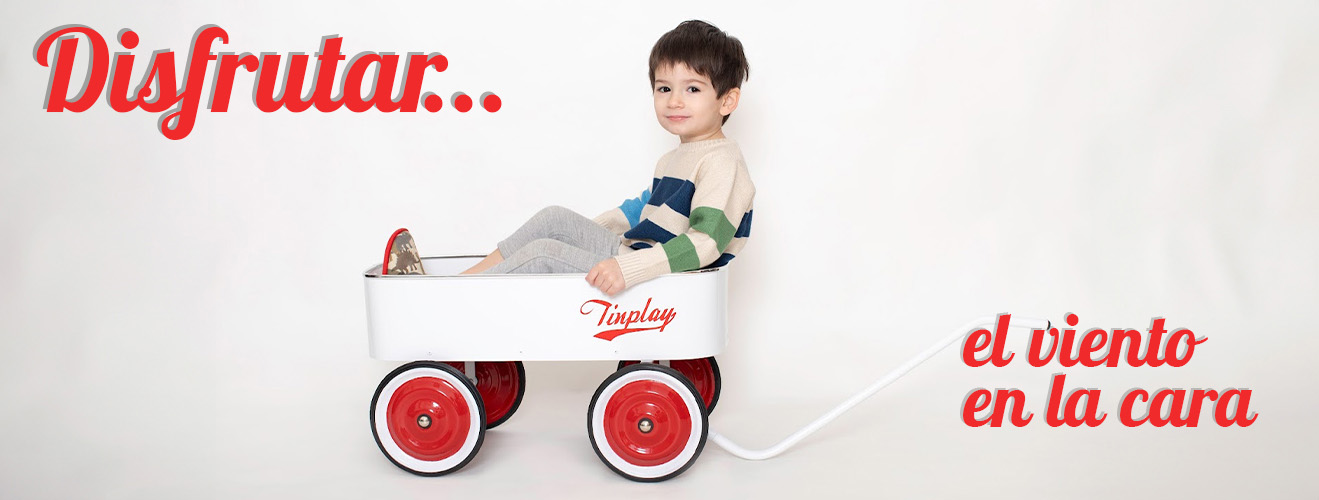
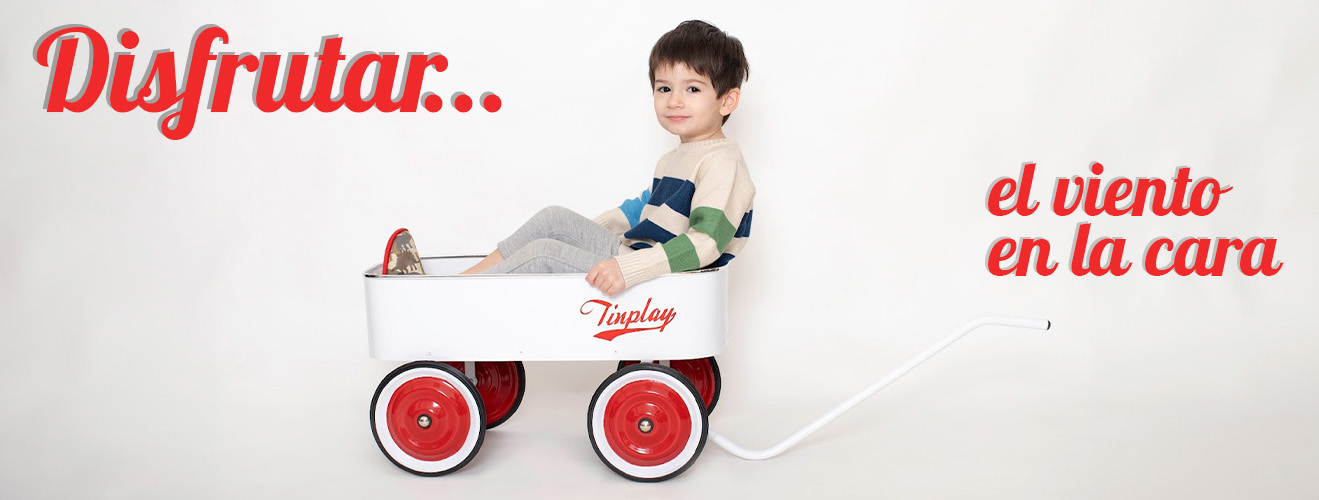
casi-final2

Changed region(s): [[0.746, 0.33, 0.9947, 0.57], [0.7149, 0.63, 0.9636, 0.87]]

diff --git a/css/style.css b/css/style.css
@@ -134,6 +134,13 @@ a{
 #banner-slogan {
     padding-top: 4.375rem;
 }
+#banner-slogan .tres-estrellas{
+    position: absolute;
+    height: 3rem;
+    width: 3rem;
+    margin-left: 2rem;
+    margin-top: 3.5rem;
+}
 #banner-slogan .slider {
     width: 80%;
     height: 28.125rem;
@@ -424,6 +431,12 @@ a{
     position: absolute;
     z-index: 1;
 }
+#sobre-nosotros .tres-estrellas-nosotros{
+    position: absolute;
+    height: 3rem;
+    width: 3rem;
+    margin-left: 25rem;
+}
 #sobre-nosotros .titulo-slider {
     font-family: "Inter", sans-serif;
     margin-left: 9.375rem;
@@ -569,6 +582,7 @@ footer .redes{
     display: flex;
     width: 12.5rem;
     justify-content: space-between;
+    z-index: 100;
 }
 footer .redes img {
     width: 3.125rem;
@@ -890,6 +904,9 @@ footer .lapiz{
         justify-content: space-between;
         display: none;
     }
+    nav .avioncito{
+        margin-left: 10rem;
+    }
     .menu{
         display:none;
     }
@@ -930,6 +947,9 @@ footer .lapiz{
         height: 35px;
         width: 80px;
     }
+    #banner-slogan .raya {
+        margin-left: 10rem;
+    }
     /*productos*/
     #productos{
         width: 100%;
@@ -940,6 +960,20 @@ footer .lapiz{
         /*background-color: red;*/
         background-position: center;
         background-size: cover;
+    }
+    #productos .planeta{
+        margin-left: 20rem;
+        margin-top: 1rem;
+        position: absolute;
+    }
+    #productos .avion{
+        margin-left: 4rem;
+        margin-bottom: 10rem;
+        position: absolute;
+
+    }
+    #productos .avioncito1{
+        margin-left: 2rem;
     }
     #productos h1 {
         color: white;

diff --git a/index.html b/index.html
@@ -39,6 +39,7 @@
         </nav>
         <nav class="nav container" id="nav"> 
             <a class="nav-logo" href="#"><img height="40" width="80" src="./images/logo-tinplay-blanco.png" alt=""></a>
+            <img class="avioncito" src="./images/avioncito-lineitas.svg" alt="">
             <ul class="nav_links">
                <li class="nav_item">
                 <a href="./index.html" class="nav_link">Home</a>
@@ -61,6 +62,7 @@
         </nav>
     </header>
     <section id="banner-slogan">
+        <img class="tres-estrellas" src="./images/tres-estrellas.svg" alt="">
         <div class="slider">
             <ul>
                 <li><img src="./images/slider-foto1.jpg" alt="slider1"></li>
@@ -141,6 +143,7 @@
         <img class="avioncito1" src="./images/avioncito2.svg" height="50" width="150" alt="">
     </section>
     <section id="sobre-nosotros">
+        <img class="tres-estrellas-nosotros" src="./images/tres-estrellas.svg" alt="">
         <h1>Sobre nosotros</h1>
         <div class="contenedor-sobrenosotros">
             <p><b>Bienvenidos al mundo Tinplay!</b><br> <br>
